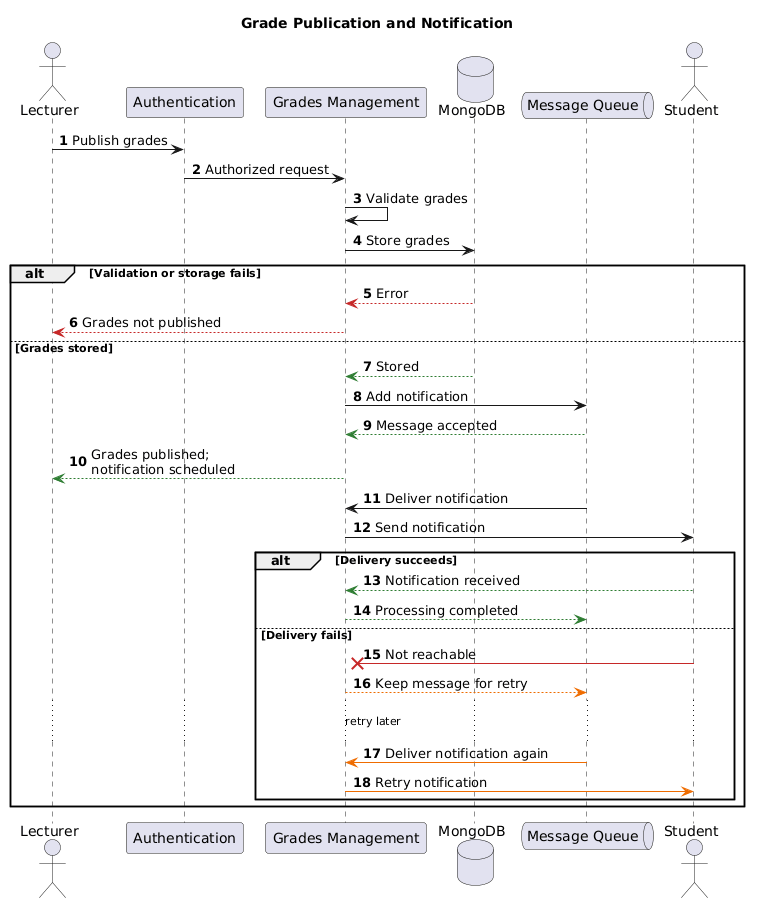
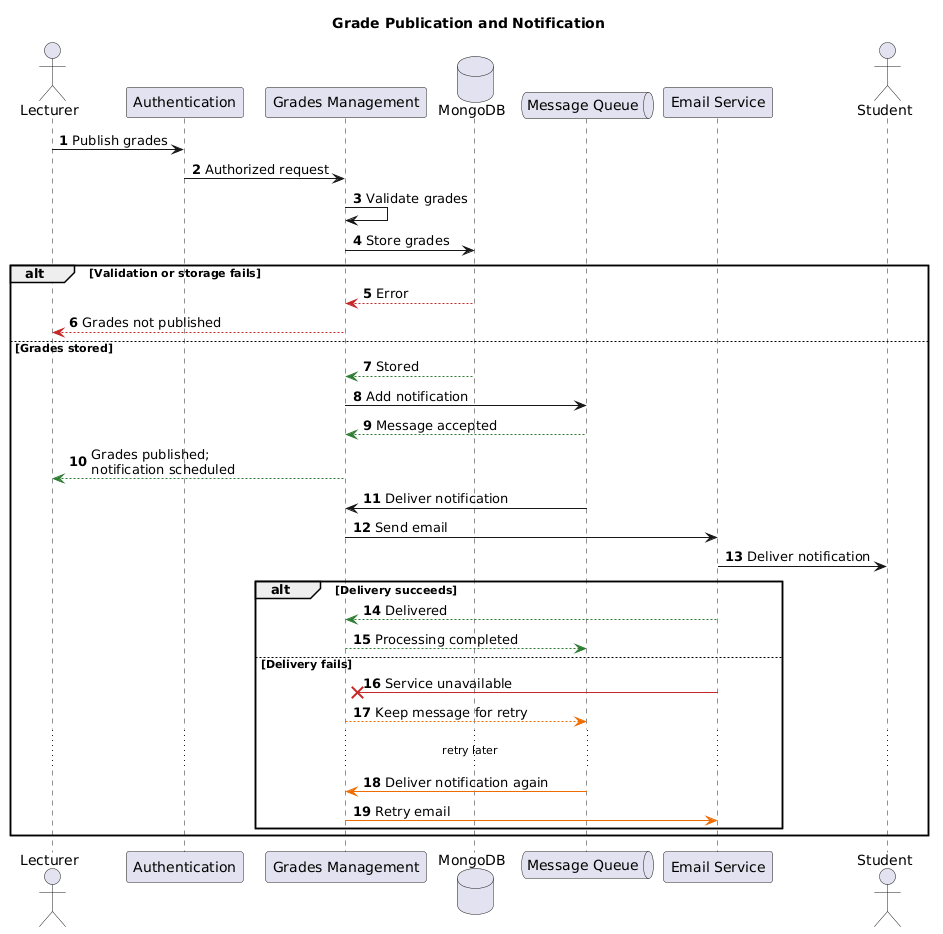
risks and technical debts added, und noch paar consistency änderungen

diff --git a/11_technical_risks.md b/11_technical_risks.md
@@ -1,7 +1,19 @@
 # Risks and Technical Debts
 
-| Risk / Technical Debt | Description |
-|---|---|
-| Access control complexity | Managing permissions for different user groups increases the risk of incorrect or overly broad access rights. |
-| Integration complexity | Connecting the application with existing university systems could cause unexpected technical issues. |
-| Limited testing time | Because of the limited project duration, not all scenarios and edge cases may be fully tested. |
+This section describes the most important technical risks and debts that result from the chosen architecture.
+
+The risks are based on the modular monolith, the integration with existing university systems, and the role-based access control described in the previous sections.
+
+| ID | Risk / Technical Debt | Description and Possible Consequence | Mitigation |
+|---|---|---|---|
+| R-1 | Weak module boundaries | The modular monolith can become tightly coupled if modules directly access the logic or MongoDB collections of other modules. Changes in one business area could then affect unrelated parts of the system and make maintenance more difficult. | Define clear module responsibilities and collection ownership. Communication between modules should use their service interfaces. Module dependencies should be checked during code reviews. |
+| R-2 | Dependency on SIS and FMS | The UMS depends on the external Student Information System and Financial Management System. These systems may be unavailable, respond slowly, or change their REST APIs. This could prevent student synchronization or leave payment operations unresolved. | Use documented API interfaces, timeouts, controlled error handling, and monitoring. Payment requests with an unknown result remain `PENDING` and are checked later instead of being repeated. |
+| R-3 | Incorrect access permissions | Incorrectly defined roles or missing authorization checks could allow users to access or modify sensitive student, grade, attendance, or financial data. | Enforce RBAC in the backend for every protected endpoint. Add automated authorization tests for every role and log rejected access attempts. The frontend may hide unavailable functions, but it is not the security enforcement point. |
+
+## Risk Priority
+
+| Priority | Risk | Reason |
+|---|---|---|
+| High | Incorrect access permissions | Unauthorized access could expose or modify sensitive academic and financial data. |
+| High | Dependency on SIS and FMS | External failures can directly affect important student and payment workflows. |
+| Medium | Weak module boundaries | The impact increases over time as the system grows and more modules depend on each other. |

diff --git a/README.md b/README.md
@@ -1,0 +1,18 @@
+# University Management System Architecture
+
+This repository contains the arc42 architecture documentation for the University Management System (UMS).
+
+## Chapters
+
+1. [Introduction and Goals](01_introduction_and_goals.md)
+2. [Architecture Constraints](02_architecture_constraints.md)
+3. [Context and Scope](03_context_and_scope.md)
+4. [Solution Strategy](04_solution_strategy.md)
+5. [Building Block View](05_building_block_view.md)
+6. [Runtime View](06_runtime_view.md)
+7. [Deployment View](07_deployment_view.md)
+8. [Cross-cutting Concepts](08_concepts.md)
+9. [Architecture Decisions](09_architecture_decisions.md)
+10. [Quality Requirements](10_quality_requirements.md)
+11. [Risks and Technical Debts](11_technical_risks.md)
+12. [Glossary](12_glossary.md)

diff --git a/03_context_and_scope.md b/03_context_and_scope.md
@@ -16,7 +16,7 @@ The University Management System receives and sends data from and to the followi
 | Financial Management System (FMS) | Financial transaction records, payment status updates               | Billing records, payment requests                                      |
 | Email Service | Delivery status or errors | Student notifications |
 
-All human actors interact with the system through a browser-based interface. No specialized client software is required. The two external IT systems — the SIS and FMS — are existing university systems that the UMS integrates with through APIs.
+All human actors interact with the system through a browser-based interface. No specialized client software is required. The SIS, FMS, and Email Service are external systems that the UMS integrates with through dedicated interfaces.
 
 ![Context Diagram](images/ums_context_diagram.svg)
 
@@ -33,7 +33,7 @@ The UMS communicates with its environment through the following technical channe
 | UMS ↔ FMS              | REST API                             | HTTPS        | The UMS exchanges financial and billing data with the existing Financial Management System through a documented REST API.                 |
 | UMS ↔ Email Service    | Email API or SMTP                    | HTTPS / SMTP | The UMS sends notifications to students through an external email service.                                                                |
 | UMS backend ↔ database | MongoDB driver                       | Internal TCP | The Node.js backend communicates with the MongoDB database within the cloud infrastructure. The database is not exposed externally.       |
-| Cloud infrastructure   | AWS or Azure                         | —            | The application is deployed and hosted on a cloud platform. All communication between components is secured within the cloud environment. |
+| Cloud infrastructure   | AWS                                  | —            | The application is deployed and hosted on AWS. All communication between components is secured within the cloud environment.              |
 
 ### Mapping of Inputs/Outputs to Channels
 
@@ -42,6 +42,7 @@ The UMS communicates with its environment through the following technical channe
 | All user interactions (students, lecturers, admins, finance staff) | Browser → React Frontend → Node.js Backend | HTTPS            | Encrypted in transit; accessible from any standard browser |
 | Grade submissions, attendance records, enrollment requests         | User browser → Backend API                 | HTTPS / REST     | Authenticated via role-based access control                |
 | Course materials, schedules, notifications                         | Backend → User browser                     | HTTPS / REST     | Served through the React frontend                          |
+| Email notifications                                                | Backend → Email Service                    | HTTPS / SMTP     | Sent asynchronously after the related operation succeeds  |
 | Student master data (read/write)                                   | Backend ↔ Student Information System       | HTTPS / REST API | Synchronized through a documented external API             |
 | Billing and payment data (read/write)                              | Backend ↔ Financial Management System      | HTTPS / REST API | Synchronized through a documented external API             |
 | Persistent application data (all modules)                          | Backend ↔ MongoDB                          | Internal TCP     | Database is not exposed outside the cloud environment      |

diff --git a/02_architecture_constraints.md b/02_architecture_constraints.md
@@ -7,7 +7,7 @@
 | Frontend technology: React  | The frontend must be implemented using React.                                                |
 | Backend technology: Node.js | Backend services must be implemented using Node.js.                                          |
 | Database: MongoDB           | MongoDB must be used as the primary data store.                                              |
-| Cloud hosting               | The application must be deployable on AWS or Azure.                                          |
+| Cloud hosting               | The application must be deployable on AWS.                                                   |
 | Existing system integration | Integration with the Student Information System and Financial Management System is required. |
 | Data protection compliance  | The system must comply with applicable privacy and data protection regulations.              |
 
@@ -21,7 +21,7 @@
 | Centralized platform | Academic, administrative, and financial processes shall be managed in one system. |
 
 
-## Developement Constraints
+## Development Constraints
 
 | Constraint                | Explanation                                                                         |
 | ------------------------- | ----------------------------------------------------------------------------------- |

diff --git a/04_solution_strategy.md b/04_solution_strategy.md
@@ -21,7 +21,7 @@ The following strategies are used to achieve the project's quality goals:
 
 ## Reliability
 
-* Deploy the application on a scalable cloud platform such as AWS or Azure.
+* Deploy the application on AWS as a scalable cloud platform.
 * Use a centralized database to ensure data consistency and integrity.
 * Provide controlled access to business functions through clearly defined application services.
 * Integrate existing university systems through stable and documented APIs.

diff --git a/05_building_block_view.md b/05_building_block_view.md
@@ -4,7 +4,7 @@
 
 ### White-box: University Management System
 
-The University Management System is decomposed into seven functional modules. Each module is responsible for a clearly defined business domain. All modules share the Authentication module for access control.
+The University Management System is decomposed into eight main building blocks. Each building block is responsible for a clearly defined area. All functional modules use the Authentication building block for access control.
 
 ![Level 1 Building Block View](images/ums_level1_building_blocks.svg)
 

diff --git a/12_glossary.md b/12_glossary.md
@@ -33,7 +33,7 @@ This glossary defines the most important domain-specific and technical terms use
 | CAP Theorem | A principle for distributed systems stating that during a network partition, a system cannot guarantee both full consistency and full availability. |
 | Network Partition | A communication failure in which the UMS temporarily cannot reach an external system such as the FMS. |
 | Data Ownership | The rule that each functional module manages its own data collections and other modules do not modify them directly. |
-| Cloud Deployment | Operation of the UMS on cloud infrastructure such as AWS or Azure. |
+| Cloud Deployment | Operation of the UMS on AWS cloud infrastructure. |
 | AWS | Amazon Web Services. The cloud platform used for hosting and operating the UMS. |
 | CloudWatch | An AWS service used to collect logs, monitor the application, and trigger alerts. |
 | CDN | Content Delivery Network. Infrastructure used to distribute the static React frontend efficiently. |

diff --git a/about-arc42.md b/about-arc42.md
@@ -2,7 +2,7 @@
 
 arc42 is the template for documentation of software and system architecture.
 
-Template Version `{revnumber}`. `{revremark}`, `{revdate}`
+This documentation uses the arc42 structure and was adapted for the University Management System architecture project.
 
 Created, maintained and © by Dr. Peter Hruschka, Dr. Gernot Starke and contributors.
 